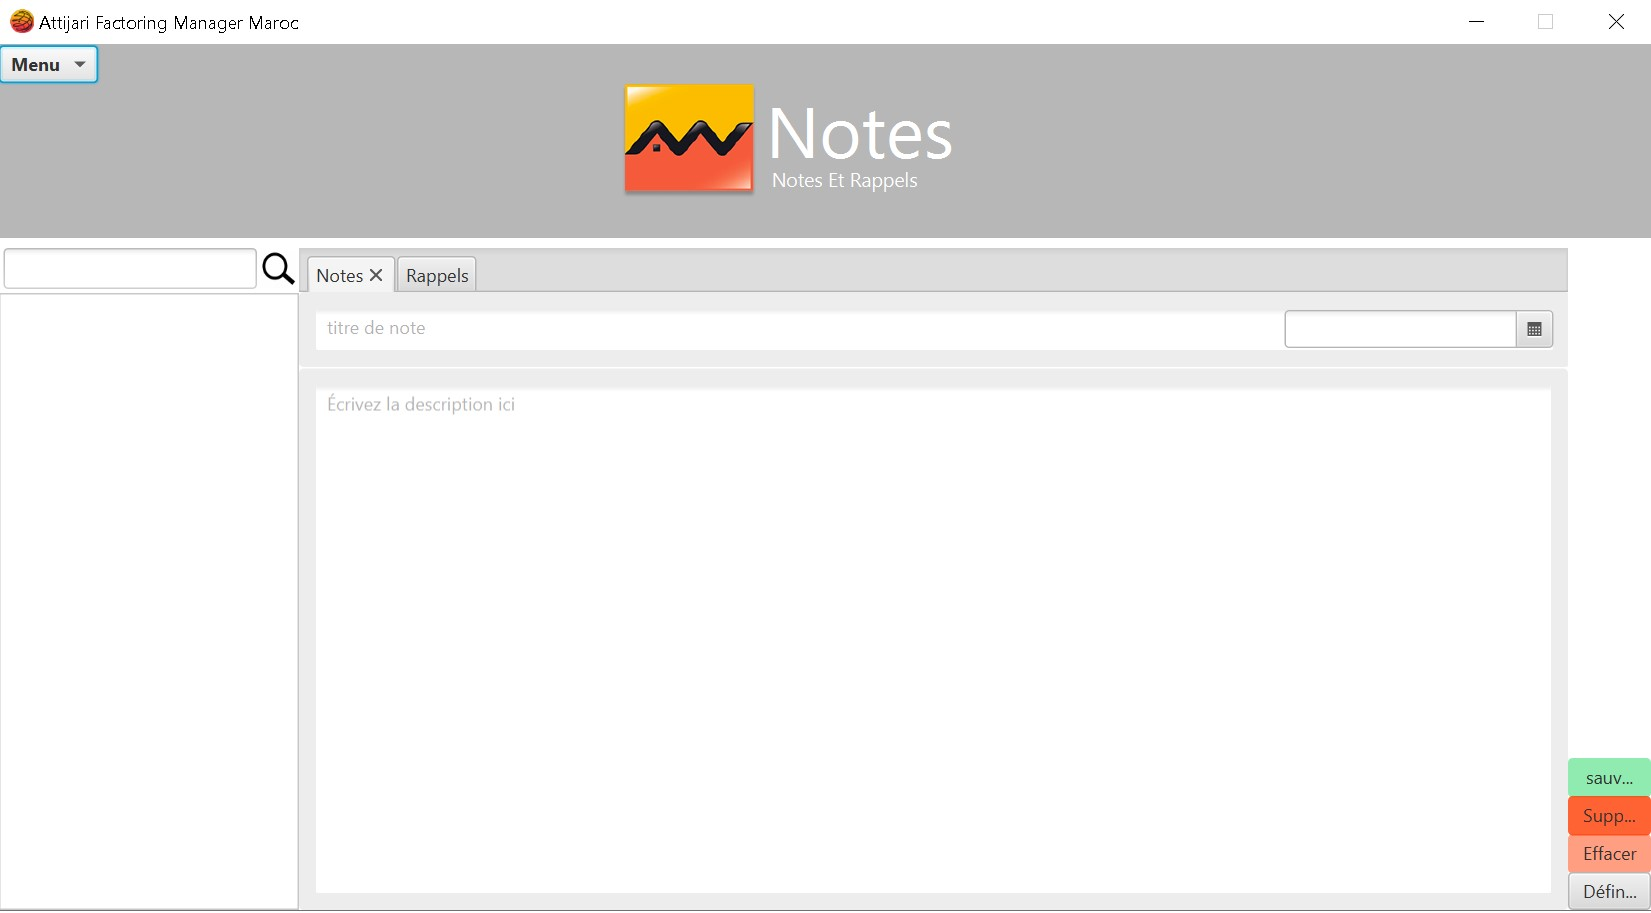
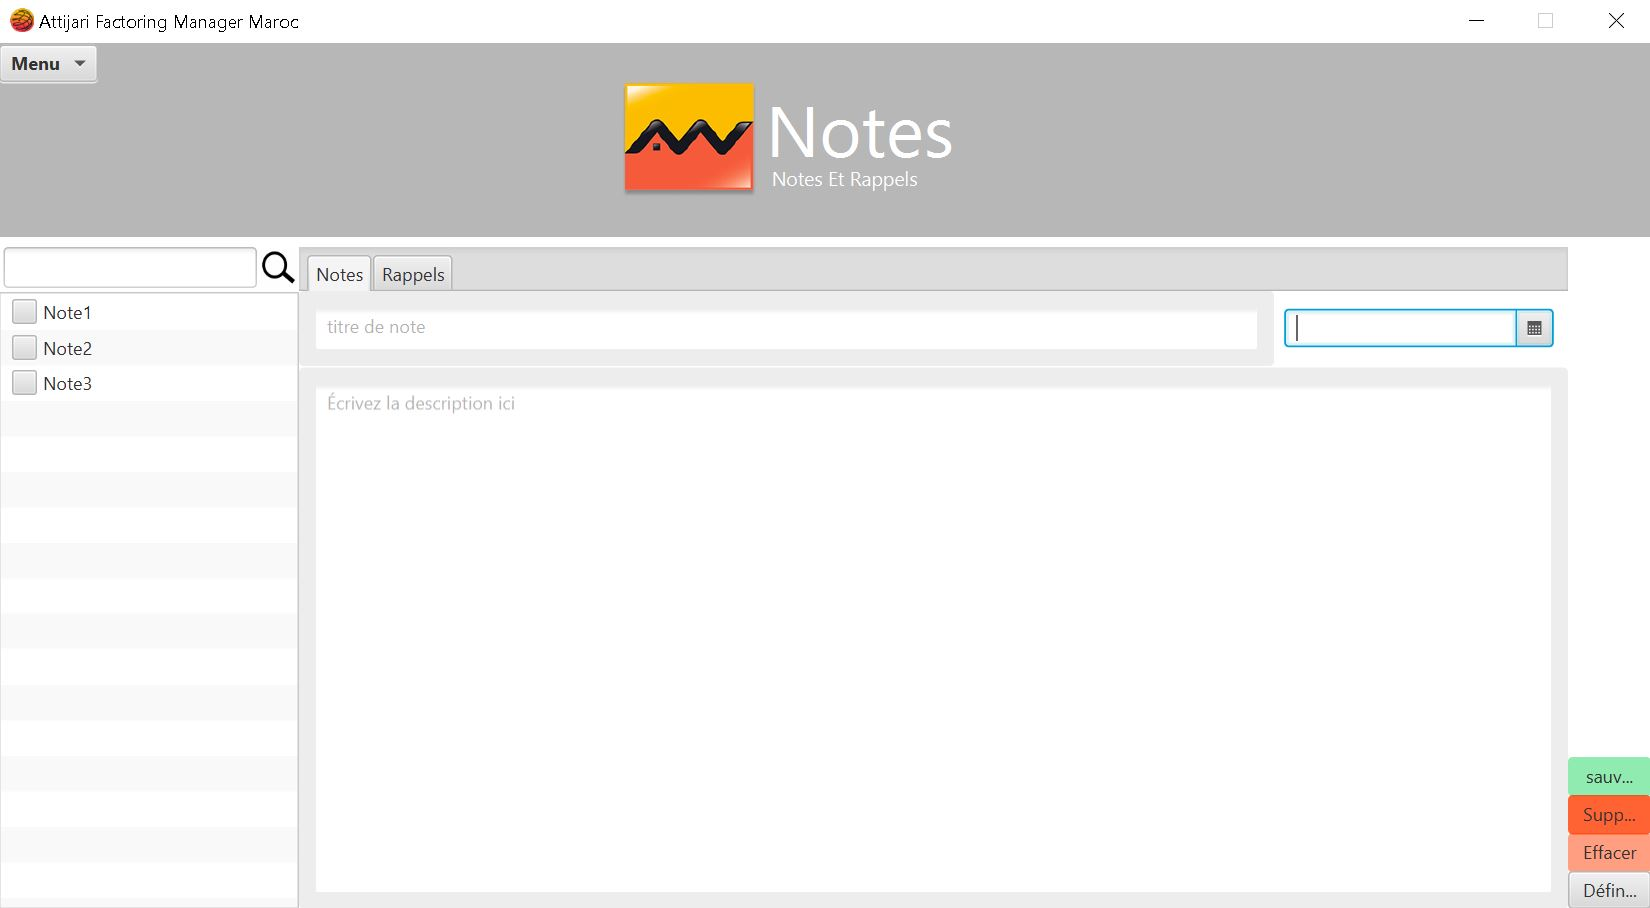
Fix the data issue in the 'Notes' list

diff --git a/src/main/java/com/afm/suppliermanagementsystem/controller/Notes.java b/src/main/java/com/afm/suppliermanagementsystem/controller/Notes.java
@@ -1,6 +1,7 @@
 package com.afm.suppliermanagementsystem.controller;
 
 import com.afm.suppliermanagementsystem.model.Note;
+import com.afm.suppliermanagementsystem.model.NoteDataModel;
 import javafx.beans.property.BooleanProperty;
 import javafx.beans.property.SimpleBooleanProperty;
 import javafx.beans.value.ObservableValue;
@@ -53,26 +54,27 @@ public class Notes implements Initializable {
 
 
     // Global variables
-    private List<Note> notes = new ArrayList<>();
+    private List<Note> notes;
     private String title;
     private String note;
     private String id;
 
     @Override
     public void initialize(URL location, ResourceBundle resources) {
+        notes = NoteDataModel.getInstance().getNotes();
         for (Note note : notes) {
             notesList.getItems().add(note.getTitle());
         }
 
         notesList.setOnMouseClicked(event -> {
             String current = notesList.getSelectionModel().getSelectedItem();
-            System.out.println("Current Item : " + current);
-            if (current!=null) {
+            if (current != null) {
                 clearFields();
                 for (Note note : notes) {
                     if (note.getTitle().equals(current)) {
                         noteTitleBox.setText(current);
                         noteBox.setText(note.getNote());
+                        datePicker.setValue(note.getDate()); // Set the selected date in the DatePicker
                     }
                 }
             }
@@ -102,17 +104,25 @@ public class Notes implements Initializable {
         this.note = noteBox.getText();
         this.id = String.valueOf(notes.size() + 100001);
 
-        Note note = new Note(this.title, this.note, this.id, selectedDate);
+        Note note = new Note();
+        note.setTitle(this.title);
+        note.setNote(this.note);
+        note.setId(this.id);
+        note.setDate(selectedDate); // Set the selected date
+
         notes.add(note);
         updateNotesList(notes);
         clearFields();
     }
 
 
+
+
     @FXML
     private void clearFields() {
         noteTitleBox.setText("");
         noteBox.setText("");
+        datePicker.setValue(null);
     }
 
     private void updateNotesList(List<Note> notes) {

diff --git a/src/main/java/com/afm/suppliermanagementsystem/model/NoteDataModel.java b/src/main/java/com/afm/suppliermanagementsystem/model/NoteDataModel.java
@@ -1,0 +1,21 @@
+package com.afm.suppliermanagementsystem.model;
+
+import java.util.ArrayList;
+import java.util.List;
+
+public class NoteDataModel {
+    private static final NoteDataModel instance = new NoteDataModel();
+    private List<Note> notes;
+
+    private NoteDataModel() {
+        notes = new ArrayList<>();
+    }
+
+    public static NoteDataModel getInstance() {
+        return instance;
+    }
+
+    public List<Note> getNotes() {
+        return notes;
+    }
+}

diff --git a/src/main/java/com/afm/suppliermanagementsystem/model/Note.java b/src/main/java/com/afm/suppliermanagementsystem/model/Note.java
@@ -9,6 +9,9 @@ public class Note {
     private String id;
     private LocalDate date;
 
+    public Note() {
+    }
+
     public Note(String title, String note, String id, LocalDate date) {
         this.title = title;
         this.note = note;
